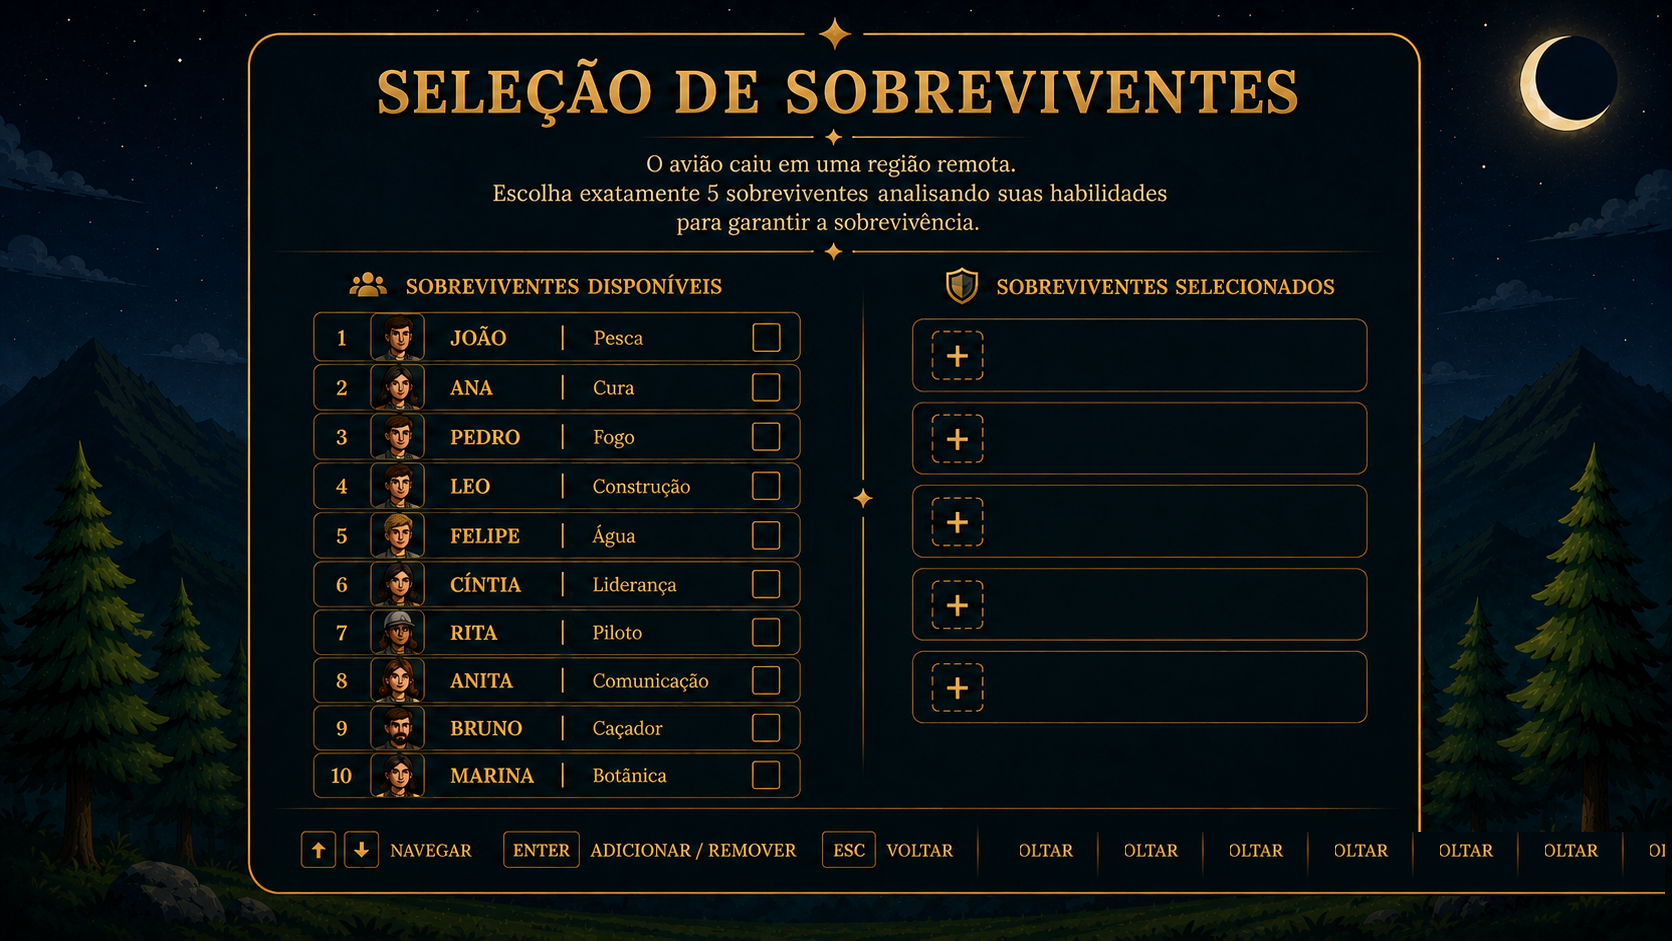
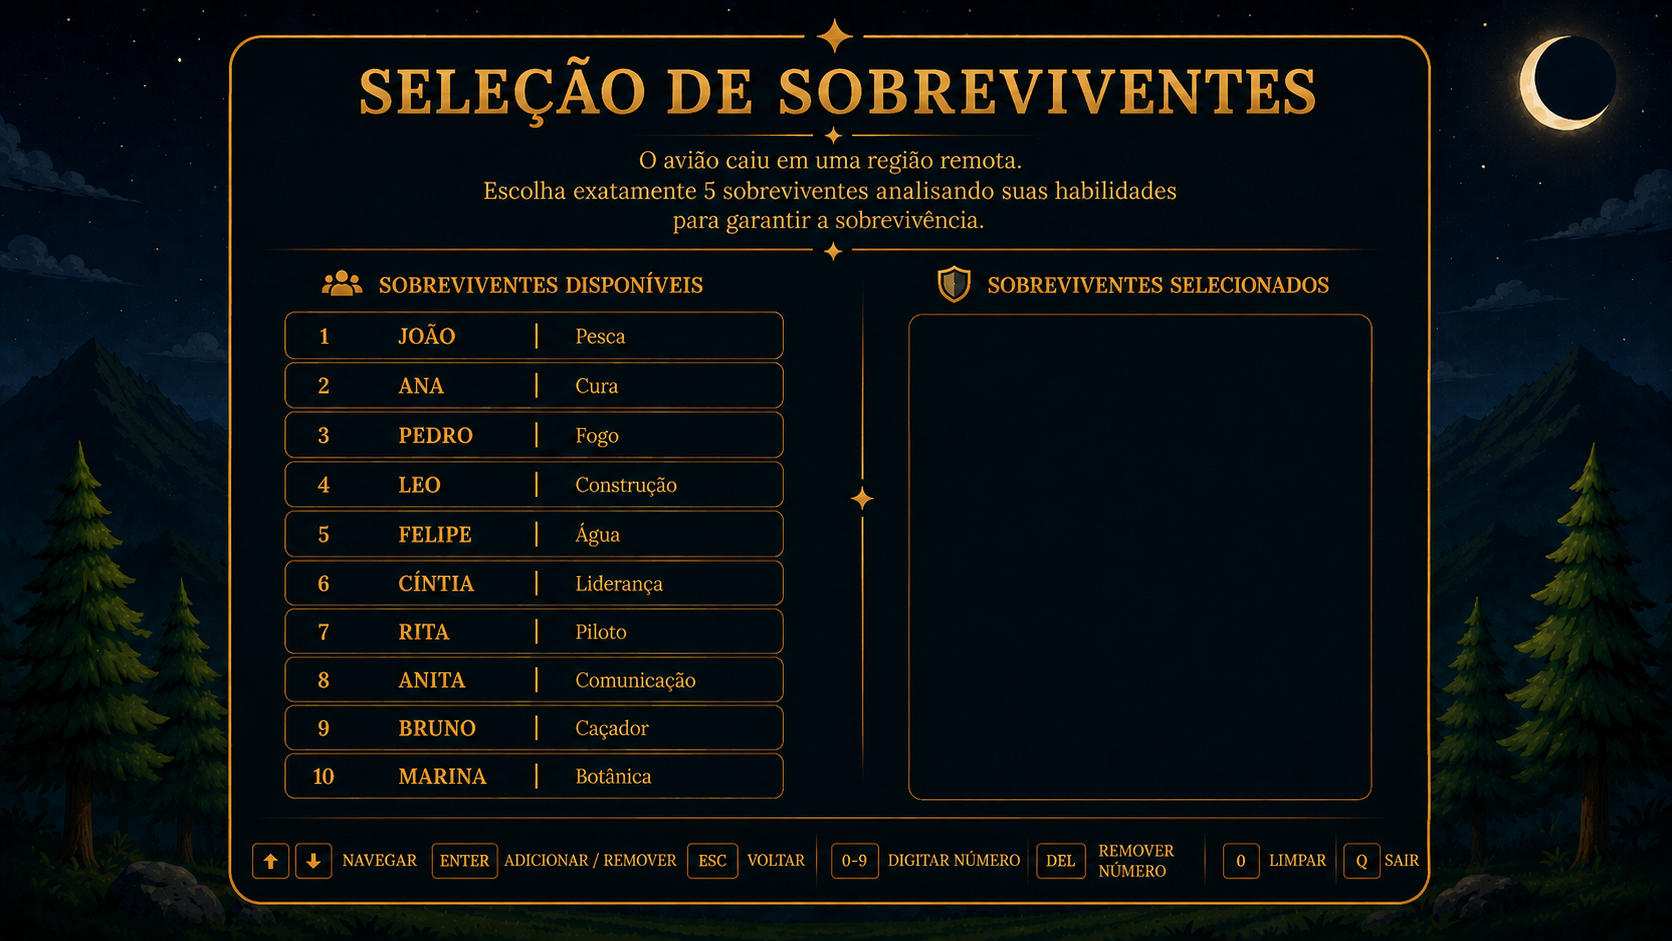
Card Atualizado

diff --git a/core/src/main/java/io/github/some_jogo/teste/Main.java b/core/src/main/java/io/github/some_jogo/teste/Main.java
@@ -83,7 +83,8 @@ public class Main implements ApplicationListener {
 
     // SELEÇÃO
     private ArrayList<Personagem> sobreviventesSelecionados;
-    private int indiceSelecionado = 0;
+    private String numeroDigitado = "";
+    private ArrayList<Integer> numerosSelecionados;
 
     SpriteBatch spriteBatch;
     ShapeRenderer shapeRenderer;
@@ -196,7 +197,7 @@ public class Main implements ApplicationListener {
         gameFont.getData().setScale(0.02f);
 
         menuFont = new BitmapFont();
-        menuFont.getData().setScale(1.0f);
+        menuFont.getData().setScale(0.90f);
         
         cardMenuIniciarTexture = new Texture("card_menuiniciar.png");
         cardSelecaoTexture = new Texture("card_selecao.png");
@@ -225,6 +226,7 @@ public class Main implements ApplicationListener {
 
         grupo = new Grupo();
         sobreviventesDisponiveis = new ArrayList<>();
+        numerosSelecionados = new ArrayList<>();
 
         Personagem joao = new Personagem("Joao", "Pesca");
         Personagem ana = new Personagem("Ana", "Cura");
@@ -395,18 +397,18 @@ public class Main implements ApplicationListener {
         }
     }
 
-    private void renderSelecao() {
+private void renderSelecao() {
 
-        atualizarSelecao();
+    atualizarSelecao();
 
-        ScreenUtils.clear(Color.DARK_GRAY);
+    ScreenUtils.clear(Color.BLACK);
 
-        float screenW = Gdx.graphics.getWidth();
-        float screenH = Gdx.graphics.getHeight();
+    float screenW = Gdx.graphics.getWidth();
+    float screenH = Gdx.graphics.getHeight();
 
-        spriteBatch.begin();
+    spriteBatch.begin();
 
-        spriteBatch.draw(
+    spriteBatch.draw(
         cardSelecaoTexture,
         0,
         0,
@@ -414,125 +416,118 @@ public class Main implements ApplicationListener {
         screenH
     );
 
-    float primeiraLinhaY = screenH * 0.53f;
-    float espacamentoY = screenH * 0.060f;
-
-    float indicadorX = screenW * 0.172f;
-
-    float checkboxX = screenW * 0.440f;
-
     menuFont.setColor(Color.GOLD);
 
-    // indicador atual
-    float indicadorY =
-        primeiraLinhaY -
-        (indiceSelecionado * espacamentoY);
-
+    // Campo digitado
     menuFont.draw(
         spriteBatch,
-        ">",
-        indicadorX,
-        indicadorY
+        "Digite um numero (1-10): " + numeroDigitado,
+        screenW * 0.57f,
+        screenH * 0.32f
     );
 
-    // checkboxes
-    for(int i = 0; i < sobreviventesDisponiveis.size(); i++) {
+    // Área da direita
+    float slotX = screenW * 0.63f;
+    float slotY = screenH * 0.63f;
+    float espacamento = screenH * 0.08f;
 
-        Personagem p = sobreviventesDisponiveis.get(i);
-
-        if(sobreviventesSelecionados.contains(p)) {
-
-            float y =
-                primeiraLinhaY -
-                (i * espacamentoY)  + (menuFont.getCapHeight() * 0.35f);
-
-            menuFont.draw(
-                spriteBatch,
-                "X",
-                checkboxX,
-                y
-            );
-        }
-    }
-
-    // slots da direita
-    float slotX = screenW * 0.58f;
-    float slotY = screenH * 0.69f;
-    float espacamentoSlots = screenH * 0.095f;
-
-    for(int i = 0; i < sobreviventesSelecionados.size(); i++) {
-
-        Personagem p =
-            sobreviventesSelecionados.get(i);
+    for(int i = 0; i < numerosSelecionados.size(); i++) {
 
         menuFont.draw(
             spriteBatch,
-            p.getNome() +
-            " - " +
-            p.getHabilidade(),
+            String.valueOf(
+                numerosSelecionados.get(i)
+            ),
             slotX,
-            slotY - (i * espacamentoSlots)
+            slotY - (i * espacamento)
         );
     }
-
-    menuFont.draw(
-        spriteBatch,
-        "Selecionados: "
-            + sobreviventesSelecionados.size()
-            + " / 5",
-        screenW * 0.58f,
-        screenH * 0.045f
-    );
-
-    menuFont.setColor(Color.WHITE);
 
     spriteBatch.end();
 }
     
+private void atualizarSelecao() {
 
-    private void atualizarSelecao() {
+    // Digitos 0-9
+    for(int i = 0; i <= 9; i++) {
 
-    if(Gdx.input.isKeyJustPressed(Keys.DOWN)
-       || Gdx.input.isKeyJustPressed(Keys.S)) {
+        int key;
 
-        indiceSelecionado++;
+        switch(i) {
+            case 0: key = Keys.NUM_0; break;
+            case 1: key = Keys.NUM_1; break;
+            case 2: key = Keys.NUM_2; break;
+            case 3: key = Keys.NUM_3; break;
+            case 4: key = Keys.NUM_4; break;
+            case 5: key = Keys.NUM_5; break;
+            case 6: key = Keys.NUM_6; break;
+            case 7: key = Keys.NUM_7; break;
+            case 8: key = Keys.NUM_8; break;
+            default: key = Keys.NUM_9;
+        }
 
-        if(indiceSelecionado >= sobreviventesDisponiveis.size())
-            indiceSelecionado = 0;
-    }
+        if(Gdx.input.isKeyJustPressed(key)) {
 
-    if(Gdx.input.isKeyJustPressed(Keys.UP)
-       || Gdx.input.isKeyJustPressed(Keys.W)) {
-
-        indiceSelecionado--;
-
-        if(indiceSelecionado < 0)
-            indiceSelecionado =
-                sobreviventesDisponiveis.size() - 1;
-    }
-
-    if(Gdx.input.isKeyJustPressed(Keys.ENTER)) {
-
-        Personagem escolhido =
-            sobreviventesDisponiveis.get(indiceSelecionado);
-
-        if(sobreviventesSelecionados.contains(escolhido)) {
-
-            sobreviventesSelecionados.remove(escolhido);
-
-        } else {
-
-            if(sobreviventesSelecionados.size() < 5) {
-
-                sobreviventesSelecionados.add(escolhido);
+            if(numeroDigitado.length() < 2) {
+                numeroDigitado += i;
             }
         }
+    }
+
+    // Backspace
+    if(Gdx.input.isKeyJustPressed(Keys.BACKSPACE)) {
+
+        if(numeroDigitado.length() > 0) {
+
+            numeroDigitado =
+                numeroDigitado.substring(
+                    0,
+                    numeroDigitado.length() - 1
+                );
+        }
+    }
+
+    // ENTER
+    if(Gdx.input.isKeyJustPressed(Keys.ENTER)) {
+
+        if(numeroDigitado.isEmpty())
+            return;
+
+        int numero =
+            Integer.parseInt(numeroDigitado);
+
+        if(numero >= 1 &&
+           numero <= sobreviventesDisponiveis.size()) {
+
+            Personagem p =
+                sobreviventesDisponiveis.get(numero - 1);
+
+            if(!sobreviventesSelecionados.contains(p)
+                    && sobreviventesSelecionados.size() < 5) {
+
+                sobreviventesSelecionados.add(p);
+                numerosSelecionados.add(numero);
+            }
+        }
+
+        numeroDigitado = "";
 
         if(sobreviventesSelecionados.size() == 5) {
 
             finalizarSelecao();
         }
     }
+    if(Gdx.input.isKeyJustPressed(Keys.BACKSPACE)) {
+
+    if(!sobreviventesSelecionados.isEmpty()) {
+
+        int ultimo =
+            sobreviventesSelecionados.size() - 1;
+
+        sobreviventesSelecionados.remove(ultimo);
+        numerosSelecionados.remove(ultimo);
+    }
+}
 }
 
     private void finalizarSelecao() {
@@ -1135,8 +1130,8 @@ public class Main implements ApplicationListener {
 
             String texto = personagemAtual.getHabilidade();
 
-            float textoX = px - 0.03f;
-            float textoY = py + playerSize + 0.3f;
+            float textoX = px - 0.08f;
+            float textoY = py + playerSize + 0.5f;
 
             gameFont.draw(
                 spriteBatch,
